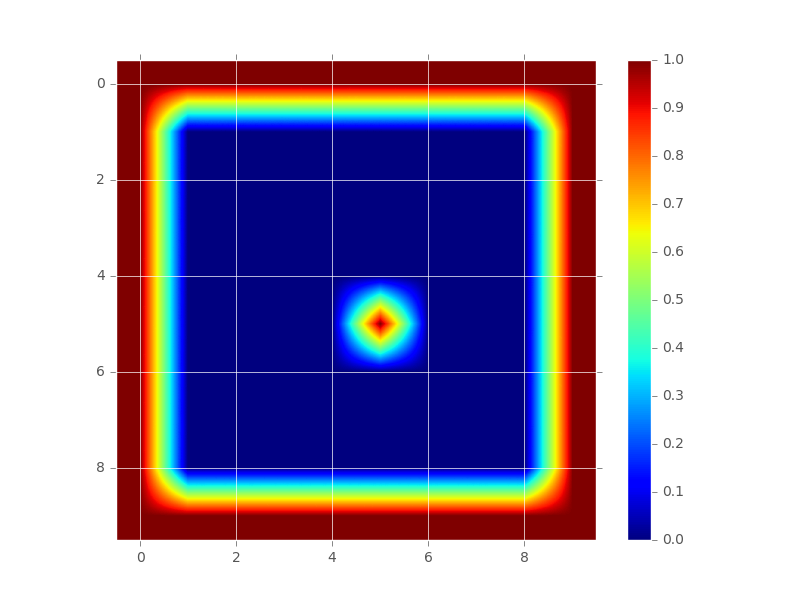
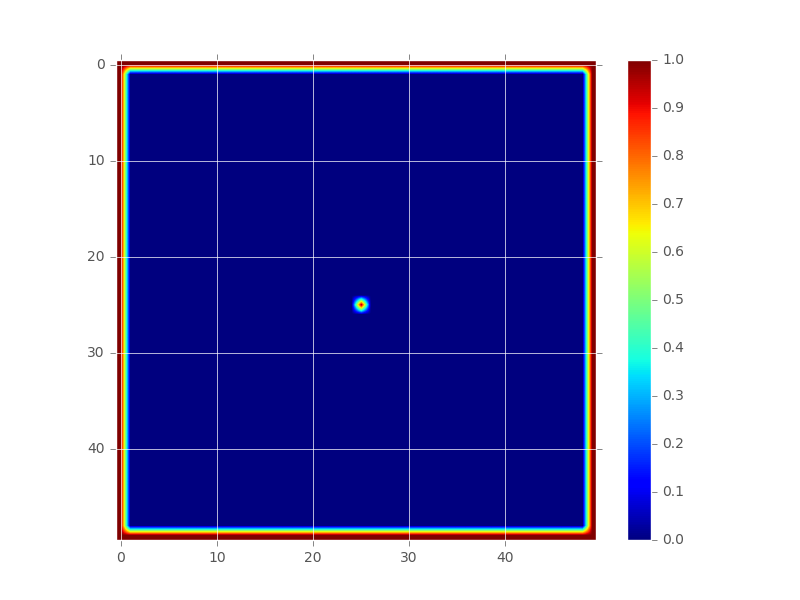
Implemented relative confusion matrix

Changed region(s): [[0.0938, 0.09, 0.75, 0.93], [0.4062, 0.45, 0.5625, 0.63]]

diff --git a/Mapping/Simulate.py b/Mapping/Simulate.py
@@ -5,7 +5,7 @@ import matplotlib.pyplot as plt
 import cv2
 from cv2 import VideoWriter, VideoWriter_fourcc
 import time
-
+import sys
 from LiSim import sim
 from LiSim import simResultProcess as prc
 from LiSim import path_gen as gen
@@ -90,6 +90,12 @@ parser.add_argument("-video", "--video",
     """,
     action="store_true"
 )
+parser.add_argument("-rl", "--relativeLoss",
+    help="""\
+        Add this option if you want to save an avi file with the animation
+    """,
+    action="store_true"
+)
 args = parser.parse_args()
 try:
     dim = tuple(args.dimensions)
@@ -102,6 +108,7 @@ animate = args.animate
 graphs = args.graphs
 stats = args.stats
 video = args.video
+relativeLoss = args.relativeLoss
 
 norm_scale = 0.01 #Map Scaling variable
 FPT = 1 #How many times the map will be update before plotted
@@ -145,23 +152,20 @@ while True:
         if cv2.waitKey(1) & 0xFF == ord('q'):
             break
         #Generate confusion matrix and logloss
-        confusion = prc.genConfusionMatrix(scaled_carte, true_carte)
+        confusion = prc.genConfusionMatrix(scaled_carte, true_carte, lidar.pos, relativeLoss)
         logloss.append(prc.loss(confusion,lidar.dim))
     else:
         scaled_carte = expit(carte*norm_scale*100)
         graphs=True
         break
-    
-print(np.shape(logloss))
+
 cv2.destroyAllWindows()
 animation_time = time.time()-start # Measure running time
 print("FPS:", tours_count/animation_time)
 print("Nombre de tours:",tours_count)
-
-
 #Plot the data
 if graphs == True:
-    confusion = prc.genConfusionMatrix(scaled_carte, true_carte)
+    confusion = prc.genConfusionMatrix(scaled_carte, true_carte,lidar.pos,relativeLoss)
     plot.plotData(confusion,"Confusion-Matrix",lidar.pos)
     plot.plotData(true_carte,"Real-Map",lidar.pos)
     plot.plotData(scaled_carte,"Produced-Map",lidar.pos)

diff --git a/Mapping/LiSim/simResultProcess.py b/Mapping/LiSim/simResultProcess.py
@@ -1,15 +1,22 @@
 import numpy as np
 from sklearn.metrics import log_loss
+import math
+from scipy.special import expit
 
-def genConfusionMatrix(obs, true):
-    return 4*np.square(obs-true)
-def genConfWeightedMatrix(obs, true):
-    weights = np.ones(np.shape(obs))
-    for i in arange(0,np.shape(obs[0][:])):
-        for j in arange(0,np.shape(obs[:,0])):
-            weights[i][j] = log(1/(i^2+j^2))
+def genConfusionMatrix(obs, true, pos, rl=False):
+    conf = 4*np.square(obs-true)
+    if rl==False:
+        return conf
+    else:
+        weights = np.ones(np.shape(obs))
+        for i in np.arange(0,obs.shape[0]):
+            for j in np.arange(0,obs.shape[1]):
+                if (i==pos[0] and j==pos[1]) or (j==pos[0] and i==pos[1]):
+                    weights[i][j] = 1
+                else:
+                    weights[i][j] = 1/math.sqrt((i-pos[0])**2+(j-pos[1])**2)*10
 
-    return np.dot(weights,genConfusionMatrix(obs,true))
+        return np.multiply(weights,conf)
 
 def loss(conf,dim):
     return (np.sum(conf)/(dim[0]*dim[1]))
